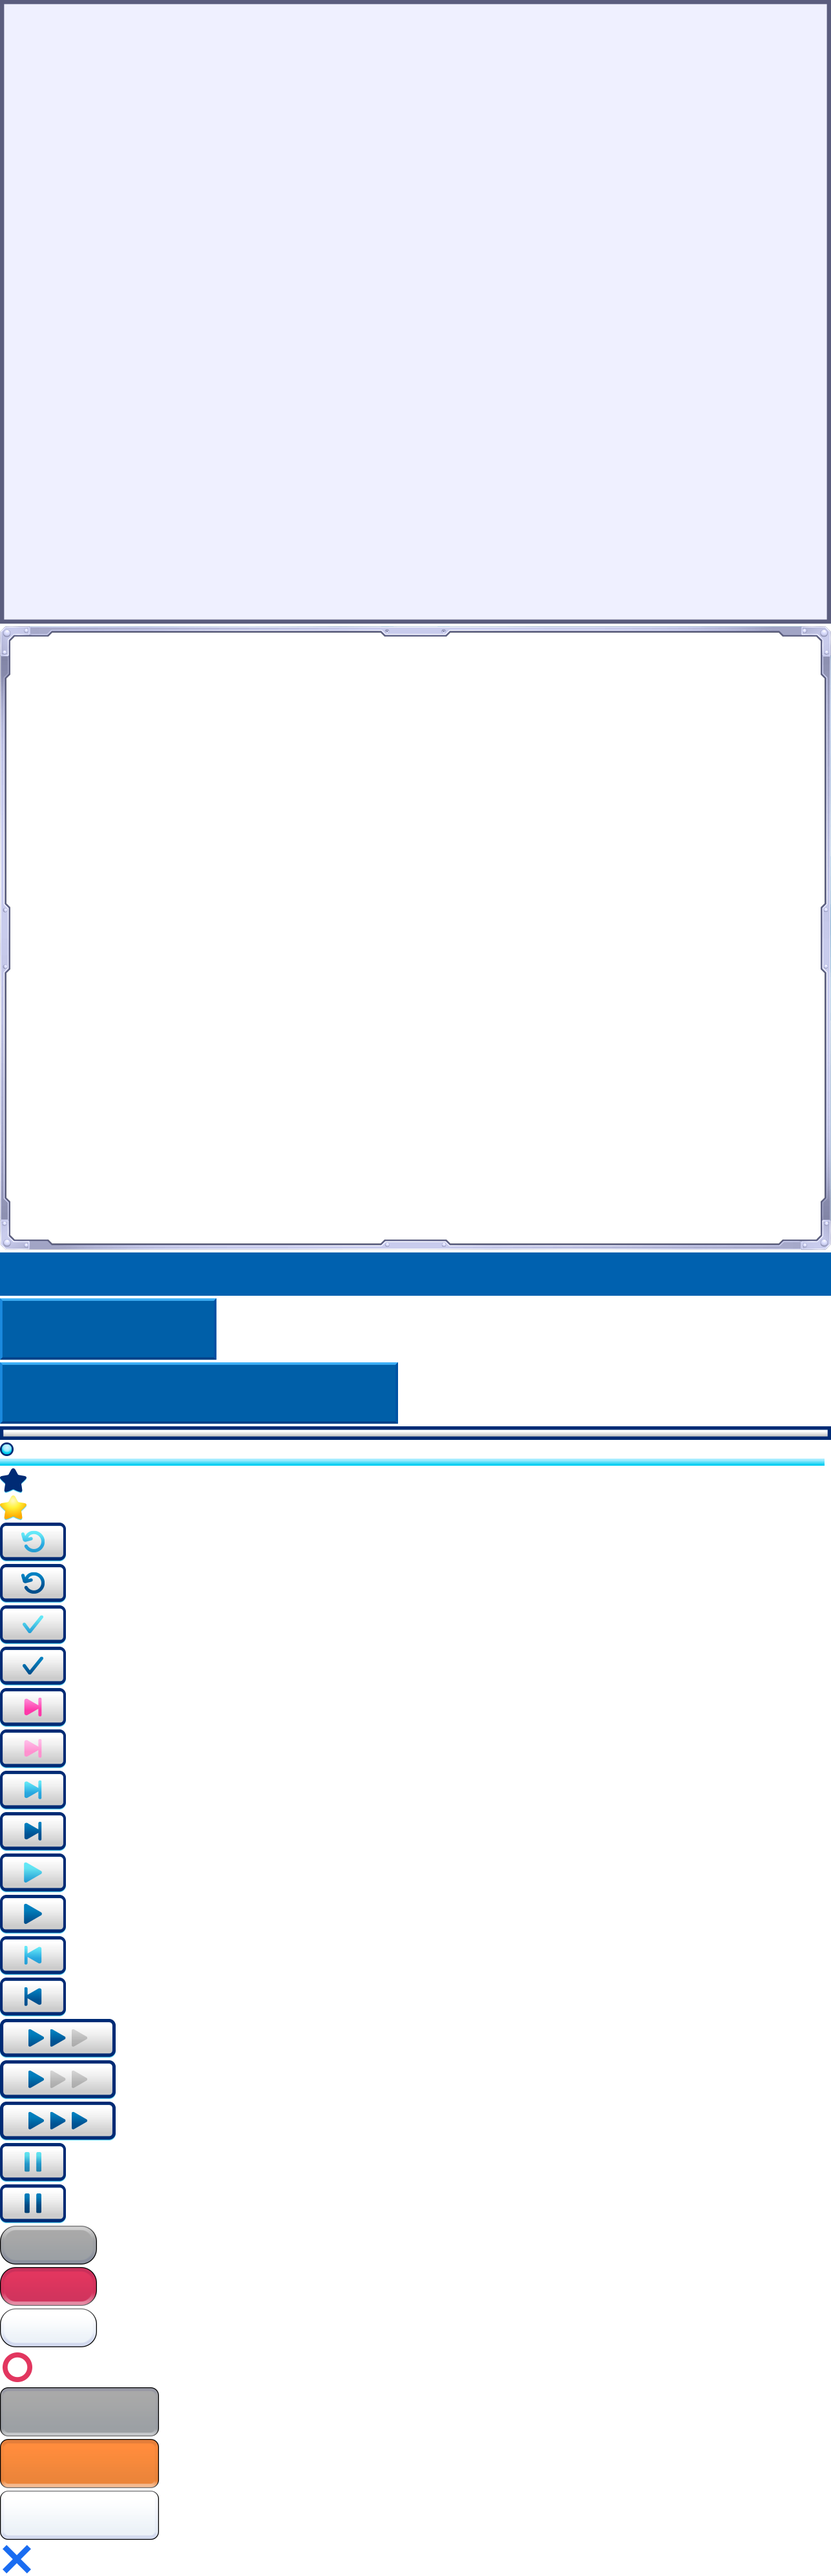
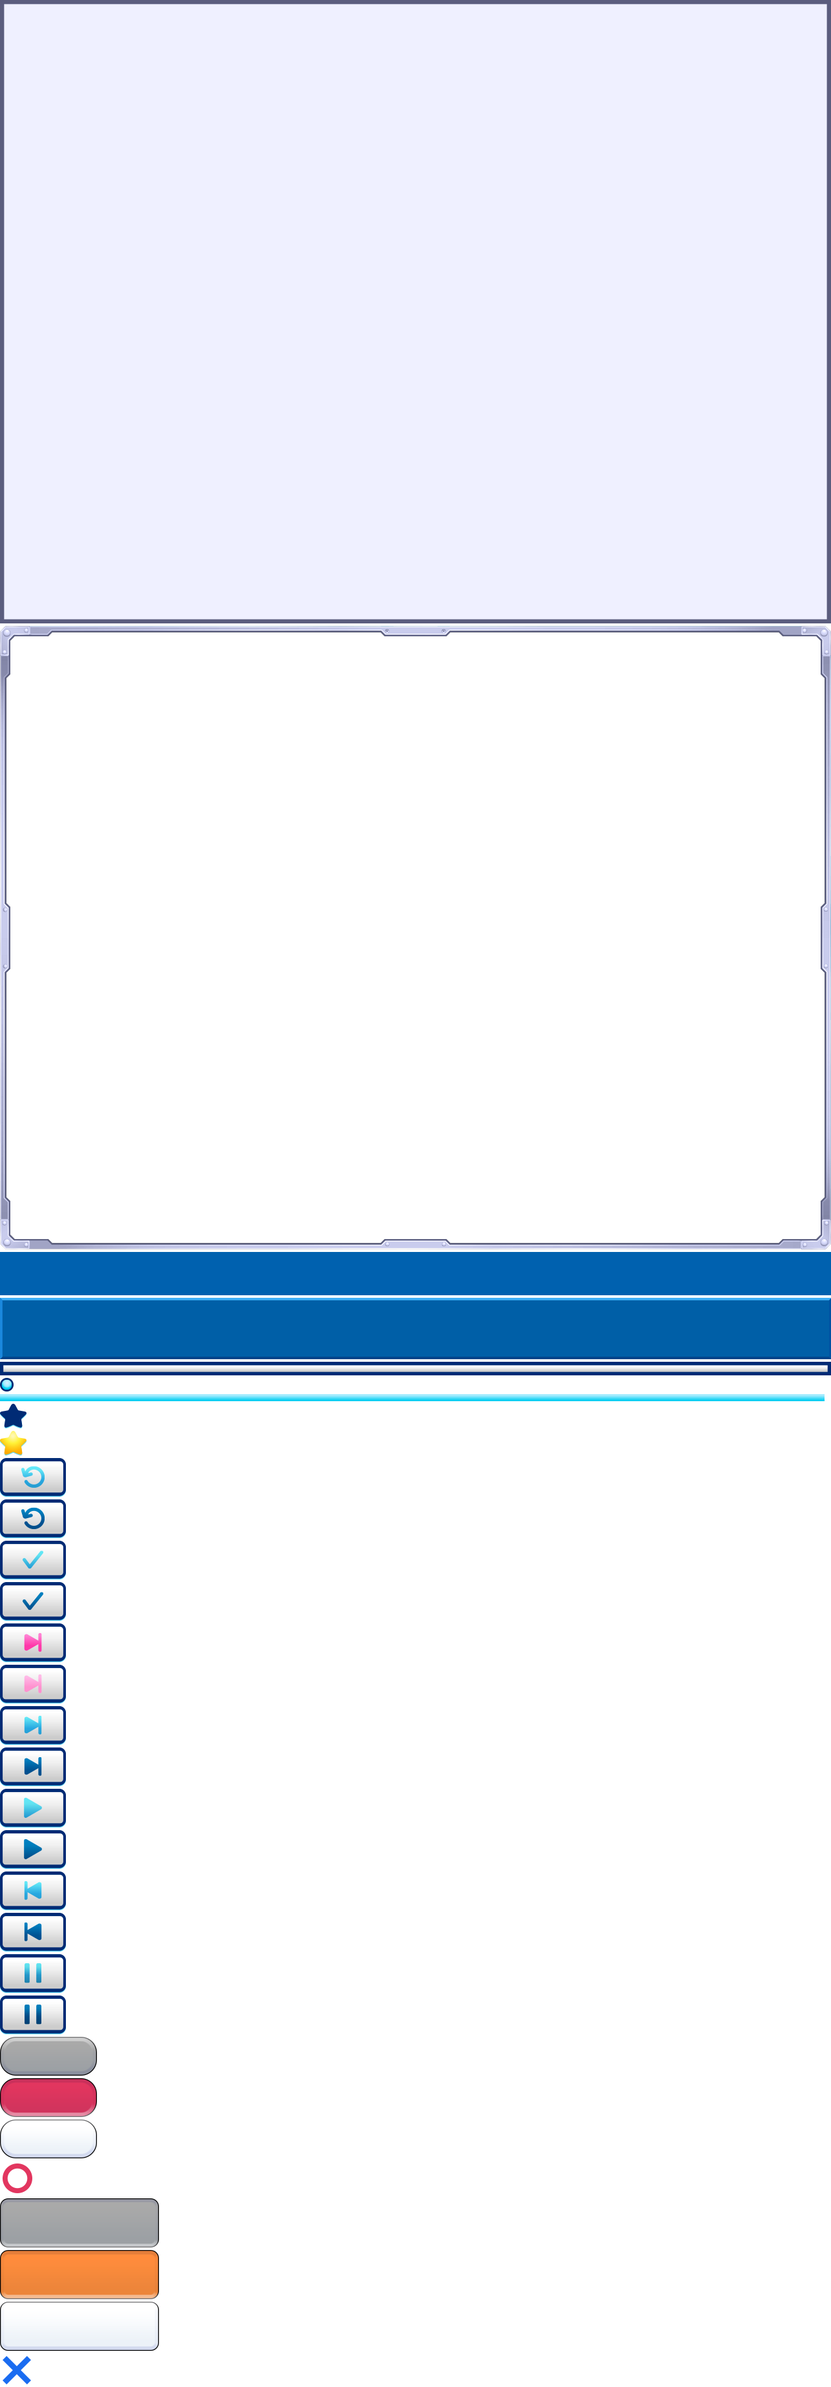
Update to latest design

diff --git a/src/features/Lecture/components/ControlPanel/ControlPanel.tsx b/src/features/Lecture/components/ControlPanel/ControlPanel.tsx
@@ -9,19 +9,32 @@ import { StepType } from "src-ibl-lecture-master/variable_types/StepType";
 import { NextBtn } from "./NextBtn";
 import { PrevBtn } from "./PrevBtn";
 import { PlayBtn } from "./PlayBtn";
-import { ControlPanelL } from "./ControlPanelL";
-import { ControlPanelB } from "./ControlPanelB";
-import { ControlPanelA } from "./ControlPanelA";
+import { ReplayBtn } from "./ReplayBtn";
+import { PageBullet } from "./PageBullet";
+import { SIZE } from "../../../../data/SIZE";
 import { handleStep, getSeekStart } from "../../../../utils";
 import styled from "styled-components";
+const ImageLecture = new URL(
+  "../../../../assets/prod/lecture_panel_answer.png",
+  import.meta.url
+).toString();
 
 export interface ControlBarProps {
   onClickPrev: (progress: number) => void;
   className?: string;
 }
 
+/* lecture_panel.png */
 const Main = styled.div`
   display: flex;
+  width: ${SIZE.W}px;
+  height: 95px;
+  background-position: 0 -2009px;
+  background-image: url(${ImageLecture});
+  display: flex;
+  align-items: center;
+  justify-content: flex-start;
+  padding: 0 10px;
 `;
 
 /**
@@ -51,38 +64,45 @@ export const ControlPanel: FC<ControlBarProps> = ({
 
   return (
     <Main {...{ className }}>
-      <ControlPanelL
+      <PageBullet
         slideLen={slideData[slideData.length - 1].progress.slide}
         slideIndex={progress.slide}
         onClick={(slide) => setProgress({ slide })}
       />
-      <ControlPanelB>
-        <PrevBtn
-          onClick={() => {
-            setProgress({ slide: "prev" });
-            // スライドが最初の時にボタンを押すとタイトルに戻るようにしたいとのこと
-            onClickPrev(progress.slide);
-          }}
-        />
-        <PlayBtn
-          isPlay={playStatus === "PLAYING"}
-          onClick={() => {
-            if (playStatus === "PLAYING") {
-              setValue(
-                handleStep(getData(progress.slide, progress.step))(getSeekStart)
-              );
-              setPlayStatus("STOPPED");
-            } else {
-              setPlayStatus("PLAYING");
-            }
-          }}
-        />
-        <NextBtn
-          onClick={() => setProgress({ slide: "next" })}
-          isBlink={isBlink}
-        />
-      </ControlPanelB>
-      <ControlPanelA />
+      <PrevBtn
+        css="margin-left: 160px;"
+        onClick={() => {
+          setProgress({ slide: "prev" });
+          // スライドが最初の時にボタンを押すとタイトルに戻るようにしたいとのこと
+          onClickPrev(progress.slide);
+        }}
+      />
+      <PlayBtn
+        css="margin-left: 30px;"
+        isPlay={playStatus === "PLAYING"}
+        onClick={() => {
+          if (playStatus === "PLAYING") {
+            setValue(
+              handleStep(getData(progress.slide, progress.step))(getSeekStart)
+            );
+            setPlayStatus("STOPPED");
+          } else {
+            setPlayStatus("PLAYING");
+          }
+        }}
+      />
+      <NextBtn
+        {...{ isBlink }}
+        css="margin-left: 30px;"
+        onClick={() => setProgress({ slide: "next" })}
+      />
+      <ReplayBtn
+        css="margin-left: 130px;"
+        onClick={() => {
+          setProgress({ step: 1 });
+          setPlayStatus("PLAYING");
+        }}
+      />
     </Main>
   );
 };

diff --git a/src/features/Lecture/components/ControlPanel/PageBullet.tsx b/src/features/Lecture/components/ControlPanel/PageBullet.tsx
@@ -1,12 +1,11 @@
 import React, { FC } from "react";
 import styled from "styled-components";
-import { ControlPanelA } from "./ControlPanelA";
 const ImageLecture = new URL(
   "../../../../assets/prod/lecture_panel_answer.png",
   import.meta.url
 ).toString();
 
-export interface ControlPanelLProps {
+export interface PageBulletProps {
   slideLen: number;
   slideIndex: number;
   onClick: (i: number) => void;
@@ -27,10 +26,8 @@ const Grid = styled.div`
   row-gap: 4px;
 `;
 
-/**
- * lecture_star_on.png
- * lecture_star_off.png
- */
+/* lecture_star_on.png */
+/* lecture_star_off.png */
 const Bullet = styled.div<{ isActive: boolean }>(
   ({ isActive }) => `
   display: block;
@@ -38,30 +35,28 @@ const Bullet = styled.div<{ isActive: boolean }>(
   background-repeat: no-repeat;
   width: 41px;
   height: 38px;
-  background-position: ${isActive ? "0 -2314px" : "0 -2272px"};
+  background-position: ${isActive ? "0 -2215px" : "0 -2173px"};
   margin: auto;
   cursor: pointer;
 `
 );
 
-export const ControlPanelL: FC<ControlPanelLProps> = ({
+export const PageBullet: FC<PageBulletProps> = ({
   slideLen,
   slideIndex,
   onClick,
 }) => {
   return (
-    <ControlPanelA>
-      <Wrapper>
-        <Grid>
-          {[...Array(slideLen)].map((x, i) => (
-            <Bullet
-              key={i}
-              isActive={slideIndex === i + 1}
-              onClick={() => onClick(i + 1)}
-            />
-          ))}
-        </Grid>
-      </Wrapper>
-    </ControlPanelA>
+    <Wrapper>
+      <Grid>
+        {[...Array(slideLen)].map((x, i) => (
+          <Bullet
+            key={i}
+            isActive={slideIndex === i + 1}
+            onClick={() => onClick(i + 1)}
+          />
+        ))}
+      </Grid>
+    </Wrapper>
   );
 };

diff --git a/src/features/Lecture/components/ControlPanel/MiniBtn.tsx b/src/features/Lecture/components/ControlPanel/MiniBtn.tsx
@@ -6,30 +6,34 @@ const ImageLecture = new URL(
 ).toString();
 
 const variants = {
+  /* lecture_button_next_flashing_1.png */
+  flashing1: "0 -2513px",
+  /* lecture_button_next_flashing_2.png */
+  flashing2: "0 -2577px",
   /* lecture_button_again_on.png */
-  againOn: "0 -2420px",
+  againOn: "0 -2321px",
   /* lecture_button_again_off.png */
-  againOff: "0 -2356px",
+  againOff: "0 -2257px",
   /* lecture_button_next_on.png */
-  nextOn: "0 -2804px",
+  nextOn: "0 -2705px",
   /* lecture_button_next_off.png */
-  nextOff: "0 -2740px",
+  nextOff: "0 -2641px",
   /* lecture_button_previous_on.png */
-  prevOn: "0 -3060px",
+  prevOn: "0 -2961px",
   /* lecture_button_previous_off.png */
-  prevOff: "0 -2996px",
+  prevOff: "0 -2897px",
   /* lecture_button_play_on.png */
-  playOn: "0 -2932px",
+  playOn: "0 -2833px",
   /* lecture_button_play_off.png */
-  playOff: "0 -2868px",
+  playOff: "0 -2769px",
   /* lecture_button_stop_on.png */
-  pauseOn: "0 -3380px",
+  pauseOn: "0 -3089px",
   /* lecture_button_stop_off.png */
-  pauseOff: "0 -3316px",
-  /* lecture_button_stop_on.png */
-  lectureEndOn: "0 -3380px",
-  /* lecture_button_stop_off.png */
-  lectureEndOff: "0 -3316px",
+  pauseOff: "0 -3025px",
+  /* lecture_button_end_on.png */
+  lectureEndOn: "0 -2449px",
+  /* lecture_button_end_off.png */
+  lectureEndOff: "0 -2385px",
 } as const;
 
 export interface MiniBtnProps {

diff --git a/src/features/Lecture/components/ControlPanel/NextBtn.tsx b/src/features/Lecture/components/ControlPanel/NextBtn.tsx
@@ -1,4 +1,4 @@
-import React, { FC, useEffect } from "react";
+import React, { FC, useEffect, useMemo } from "react";
 import { MiniBtn, MiniBtnProps } from "./MiniBtn";
 import { useTimer } from "use-timer";
 
@@ -7,18 +7,23 @@ export interface NextBtnProps
   isBlink?: boolean;
 }
 
-export const NextBtn: FC<NextBtnProps> = (props) => {
+export const NextBtn: FC<NextBtnProps> = ({ isBlink, ...props }) => {
   const { time, start, reset } = useTimer();
 
   useEffect(() => {
-    props.isBlink ? start() : reset();
-  }, [props.isBlink]);
+    isBlink ? start() : reset();
+  }, [isBlink]);
+
+  const variant = useMemo(
+    () => (isBlink ? (time % 2 === 0 ? "flashing1" : "flashing2") : "nextOn"),
+    [isBlink, time]
+  );
 
   return (
     <MiniBtn
       {...props}
+      {...{ variant }}
       caption="次ページ"
-      variant={time % 2 === 0 ? "nextOn" : "nextOff"}
       hoverVariant="nextOff"
     />
   );

diff --git a/src/features/Lecture/components/ControlPanel/PlayBtn.tsx b/src/features/Lecture/components/ControlPanel/PlayBtn.tsx
@@ -1,15 +1,15 @@
 import React, { FC } from "react";
-import { MiniBtn } from "./MiniBtn";
+import { MiniBtn, MiniBtnProps } from "./MiniBtn";
 
-export interface PlayBtnProps {
+export interface PlayBtnProps
+  extends Pick<MiniBtnProps, "onClick" | "className"> {
   isPlay?: boolean;
-  onClick?: () => void;
 }
 
-export const PlayBtn: FC<PlayBtnProps> = ({ isPlay = false, onClick }) => {
+export const PlayBtn: FC<PlayBtnProps> = ({ isPlay = false, ...props }) => {
   return (
     <MiniBtn
-      {...{ onClick }}
+      {...props}
       caption={!isPlay ? "再生" : "一時停止"}
       variant={!isPlay ? "playOn" : "pauseOn"}
       hoverVariant={!isPlay ? "playOff" : "pauseOff"}

diff --git a/src/features/Lecture/components/Screen/QuizChoiceBtn.tsx b/src/features/Lecture/components/Screen/QuizChoiceBtn.tsx
@@ -6,26 +6,26 @@ export const QUIZ_CHOICE_BTN = {
   /**
    * Question_button_select.png
    */
-  ORANGE: "0 -3774px",
+  ORANGE: "0 -3483px",
   /**
    * Question_button.png
    */
-  WHITE: "0 -3854px",
+  WHITE: "0 -3563px",
   /**
    * Question_button_incorrect.png
    */
-  GRAY: "0 -3694px"
+  GRAY: "0 -3643px"
 } as const;
 
 export const QUIZ_SIGN = {
   /**
    * Correct.png
    */
-  CORRECT: "0 -3636px",
+  CORRECT: "0 -3345px",
   /**
    * Wrong.png
    */
-  INCORRECT: "0 -3934px"
+  INCORRECT: "0 -3403px"
 } as const;
 
 type Mutation = typeof QUIZ_CHOICE_BTN[keyof typeof QUIZ_CHOICE_BTN];

diff --git a/src/features/Lecture/components/ControlPanel/ReplayBtn.tsx b/src/features/Lecture/components/ControlPanel/ReplayBtn.tsx
@@ -1,0 +1,16 @@
+import React, { FC } from "react";
+import { MiniBtn, MiniBtnProps } from "./MiniBtn";
+
+export interface PlayBtnProps
+  extends Pick<MiniBtnProps, "onClick" | "className"> {}
+
+export const ReplayBtn: FC<PlayBtnProps> = (props) => {
+  return (
+    <MiniBtn
+      {...props}
+      caption="もう一度"
+      variant="againOn"
+      hoverVariant="againOff"
+    />
+  );
+};

diff --git a/src/features/Lecture/components/Screen/QuizAnswerBtn.tsx b/src/features/Lecture/components/Screen/QuizAnswerBtn.tsx
@@ -6,15 +6,15 @@ export const QUIZ_ANSWER_BTN = {
   /**
    * Answer_button_greyout.png
    */
-  GRAY: "0 -3444px",
+  GRAY: "0 -3153px",
   /**
    * Answer_button_select.png
    */
-  RED: "0 -3508px",
+  RED: "0 -3217px",
   /**
    * Answer_button.png
    */
-  WHITE: "0 -3572px"
+  WHITE: "0 -3281px"
 } as const;
 
 export interface QuizAnswerBtnProps extends MainProps {

diff --git a/src/features/Lecture/components/SeekBar/Radix.tsx b/src/features/Lecture/components/SeekBar/Radix.tsx
@@ -61,7 +61,7 @@ const StyledThumb = styled(SliderPrimitive.Thumb)`
   display: block;
   width: ${SLIDER_H}px;
   height: ${SLIDER_H}px;
-  background-position: 0 -2232px;
+  background-position: 0 -2133px;
   background-image: url(${ImageLecture});
   background-repeat: no-repeat;
 `;
